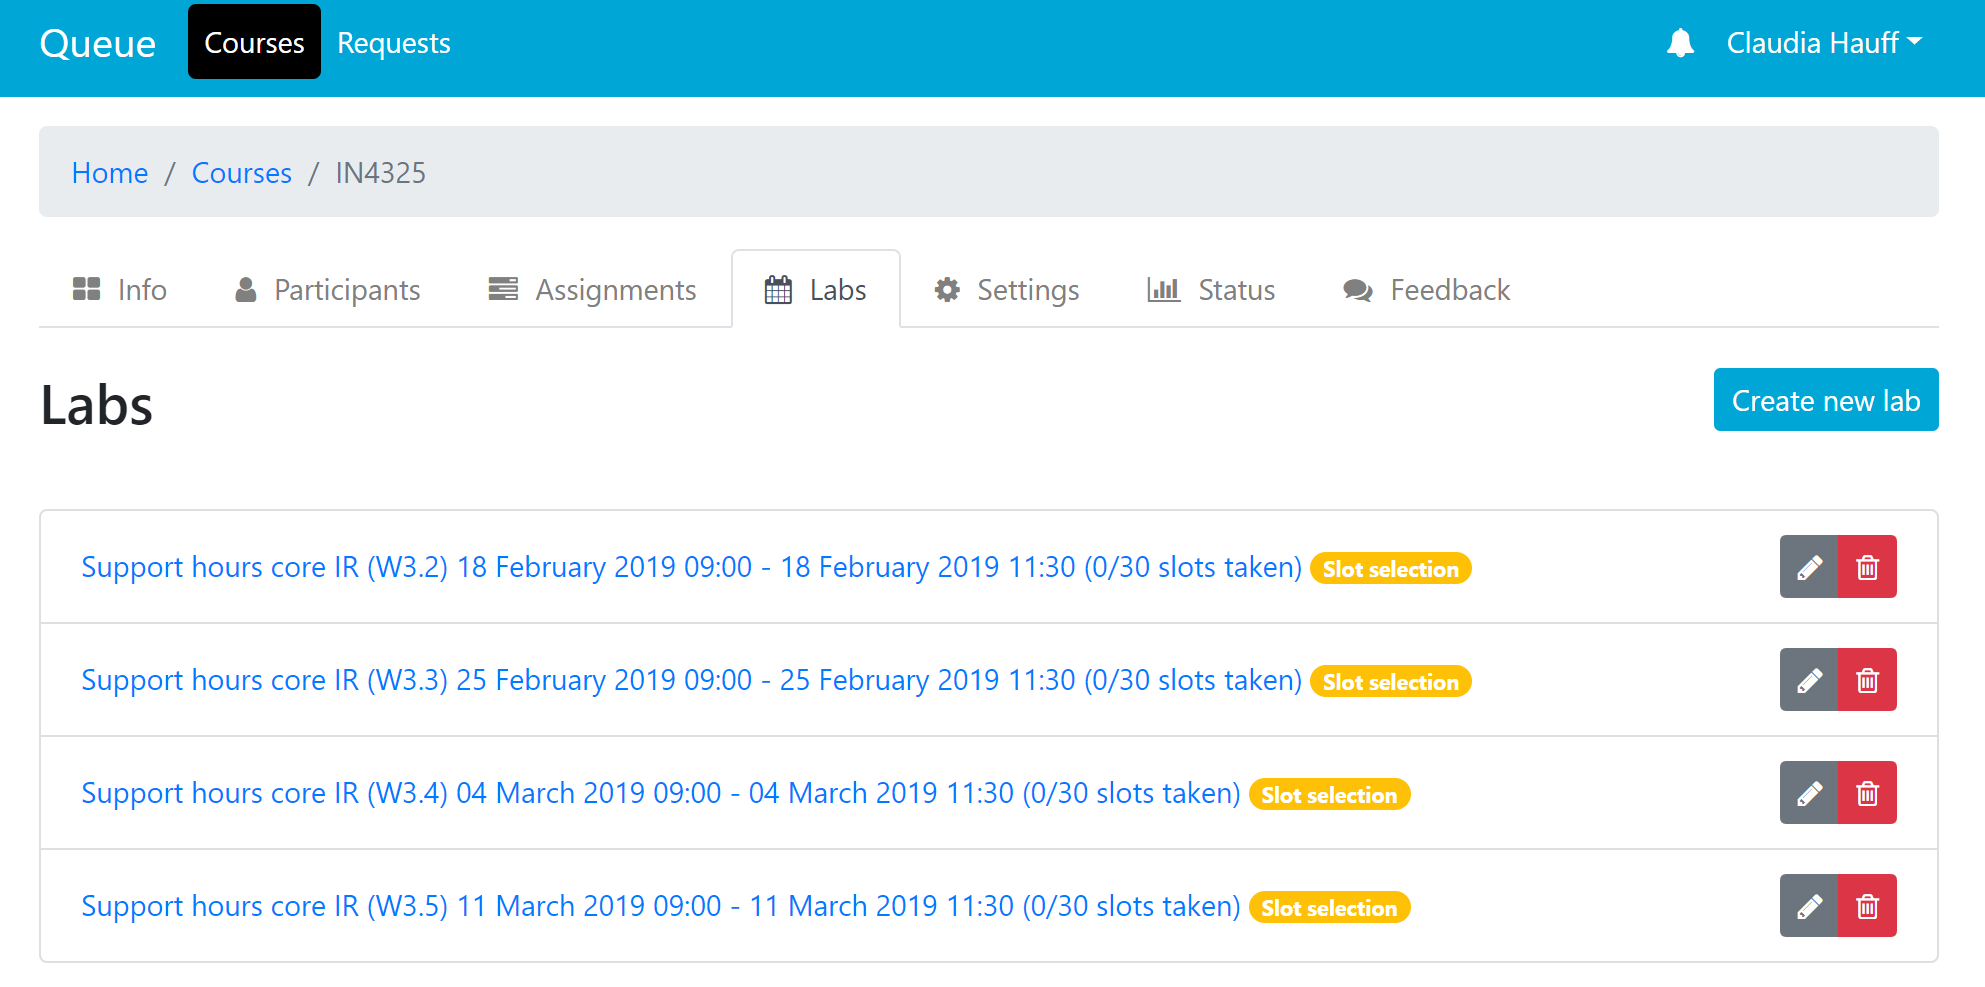
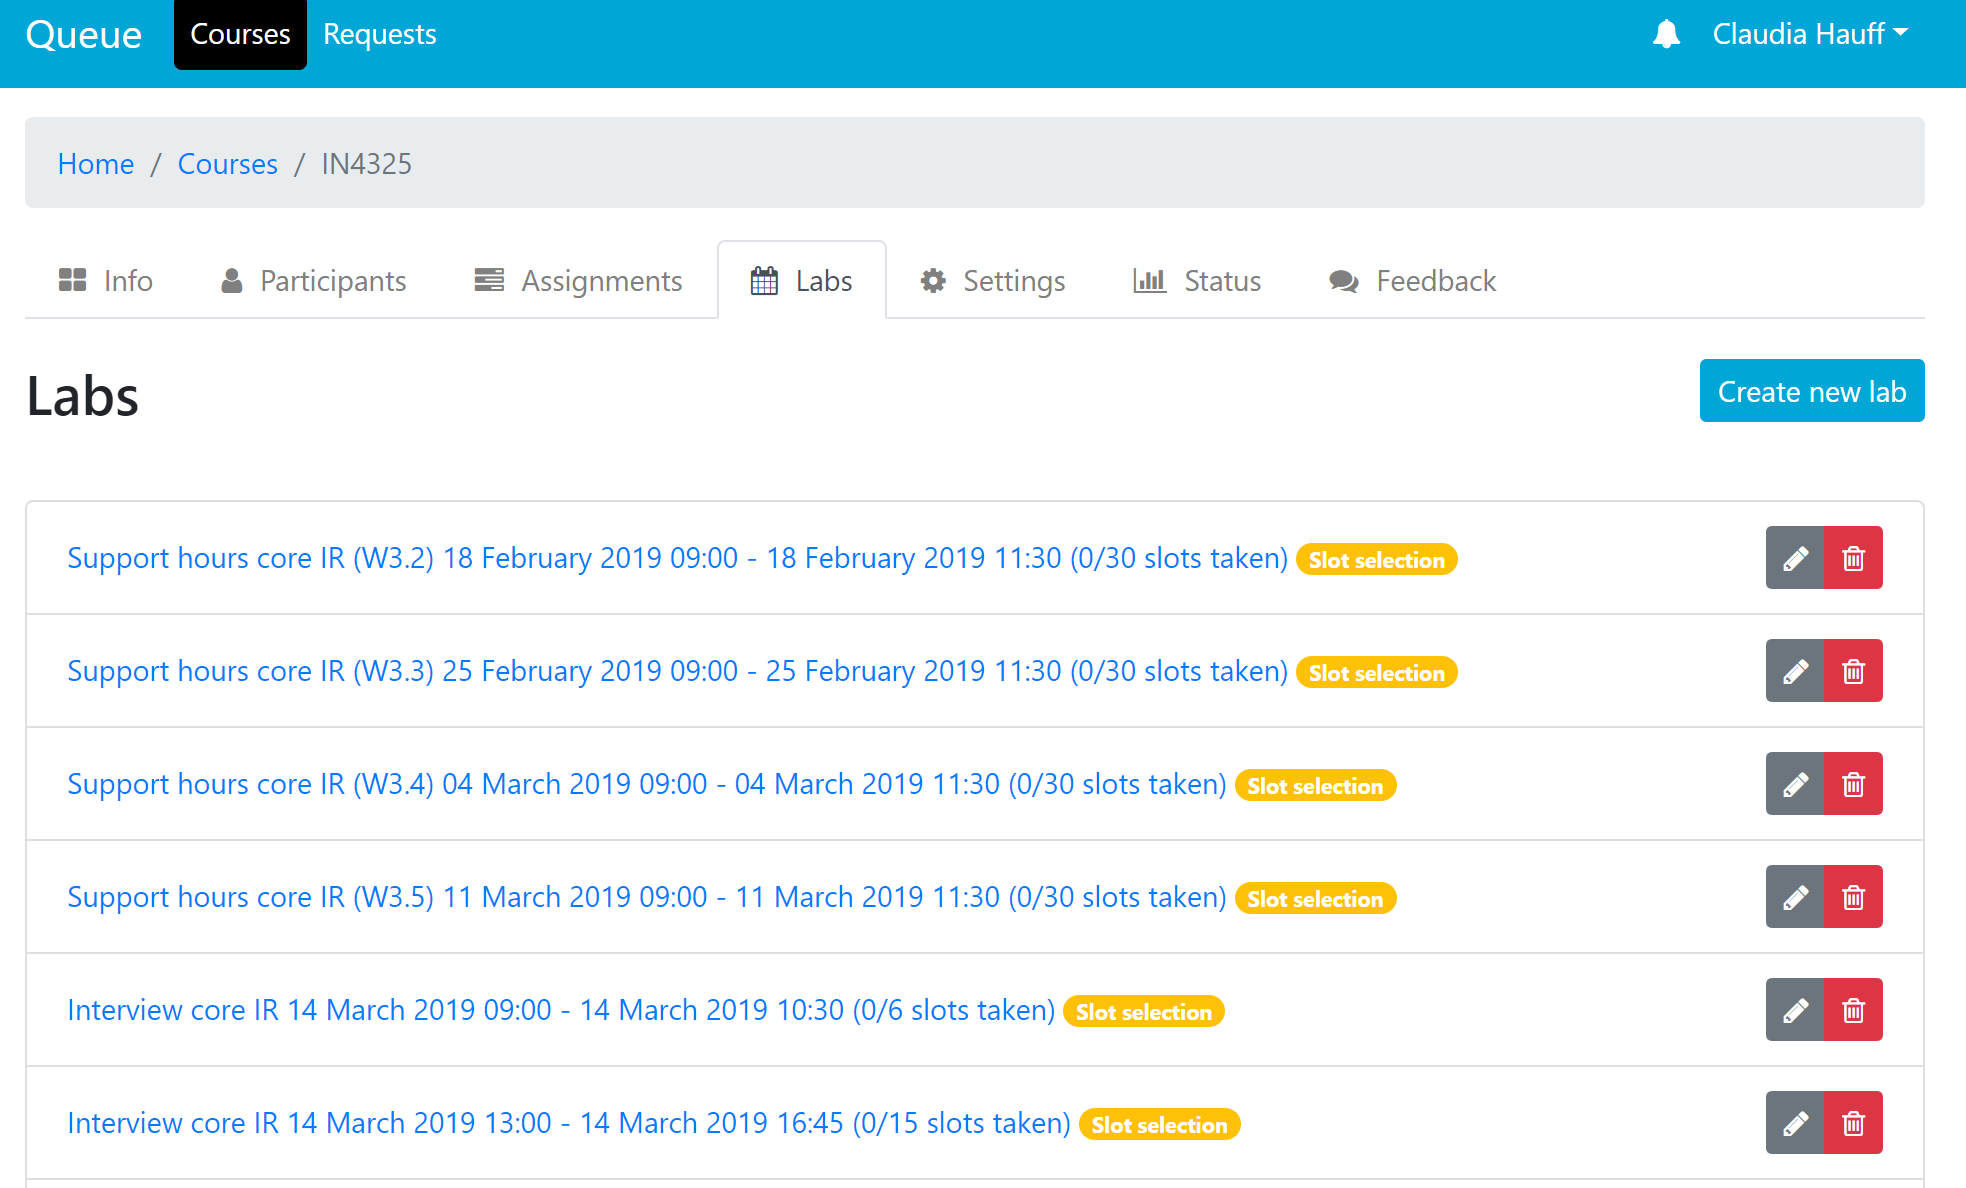
timeslots

diff --git a/README.md b/README.md
@@ -116,9 +116,8 @@ We do not have fixed lab hours. Due to the heavy emphasis on project work in thi
 
 <img src="img/queue.png" width="600px">
 
-Click on the day you want to get support and then *enroll* for a particular timeslot. Per group, please pick only one timeslot per week. The support hours are offered in building 28, please come to the waiting area near room E04.100 (Claudia Hauff's office).
-
-**The core IR interviews on March 14/15 are also scheduled this way. One timeslot per group!**
+Click on the day you want to get support and then *enroll* for a particular timeslot. Per group, please pick only one timeslot per week. The support hours are offered in building 28, please come to the waiting area near room E04.100 (Claudia Hauff's office). As you can see in the image, the 
+**core IR interviews** on March 14/15 are also scheduled this way. *Once again: one timeslot per group!*
 
 **Applied NLP**: during weeks 3.6 to 3.8 between 9am and 11:30am at least two staff members will be available to help groups with their NLP projects. We are trialing a Doodle for this part: https://doodle.com/meetme/qc/MvGrwvAyGn
 
